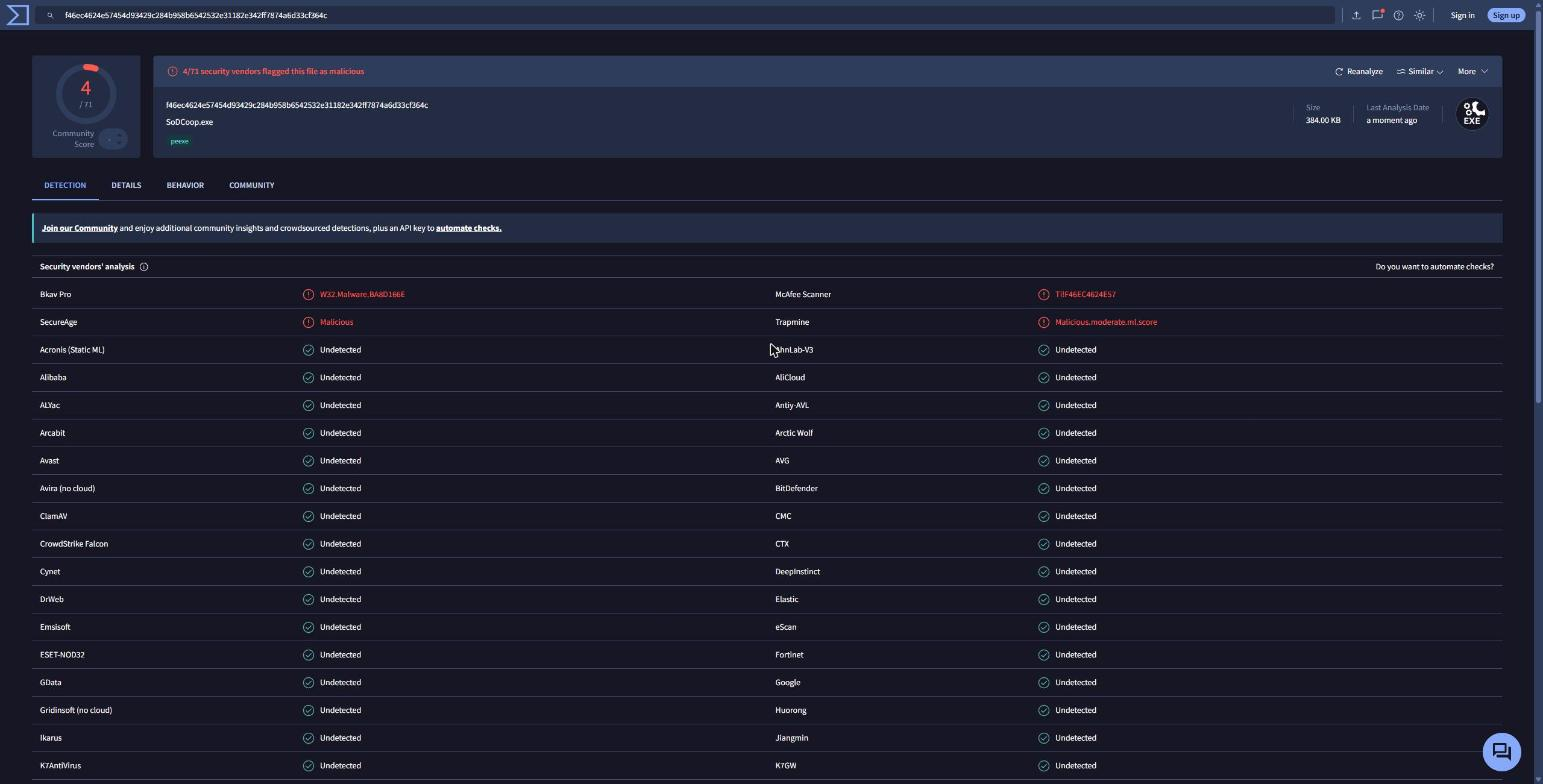
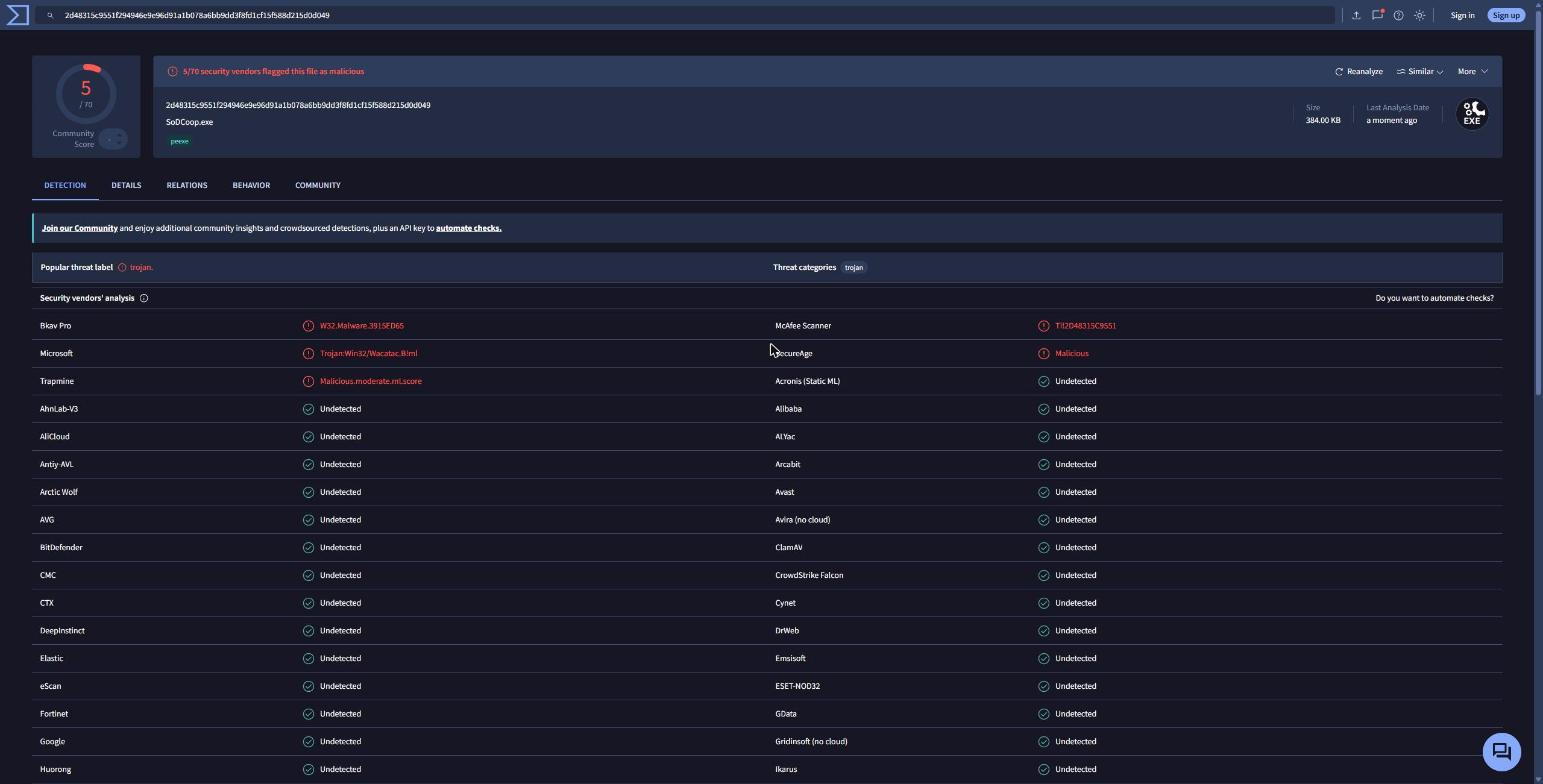
VirusTotal: resultado do pacote novo (com o envio automático do save)

diff --git a/docs/VIRUSTOTAL.md b/docs/VIRUSTOTAL.md
@@ -4,15 +4,15 @@
 
 ## English
 
-I scanned the files of the **2026-11-04** package (`sodcoop-20261104.zip`) on VirusTotal. The result **isn't zero**: each file was flagged by **4 of about 70 antivirus engines**. I'm publishing it as it is, with the links and screenshots, so you can check it yourself and decide.
+I scanned the files of the current package (`sodcoop-20261104.zip`, rebuilt on 2026-11-04 at 23:00 with the automatic save transfer) on VirusTotal. The result **isn't zero**: the mod was flagged by **3 of 71** antivirus engines and the setup window by **5 of 70**. I'm publishing it as it is, with the links and screenshots, so you can check it yourself and decide.
 
 ### Results
 
 | File | SHA-256 | Flagged by | VirusTotal |
 |---|---|---|---|
[6 lines of base64/hex data omitted]
 
 To check that your copy is the same file, open PowerShell in the folder and compare the output with the table:
 
@@ -20,15 +20,15 @@ To check that your copy is the same file, open PowerShell in the folder and comp
 Get-FileHash dinput8.dll, SoDCoop.exe -Algorithm SHA256
 ```
 
-A newer build has different hashes. This page only covers the files above.
+A newer build has different hashes. This page only covers the files above. The previous build of the same day (without the automatic save transfer) had 4 alerts on each file; its reports stay on VirusTotal under the hashes `881695d3…` (dll) and `f46ec462…` (exe).
 
 ### Screenshots
 
-**dinput8.dll: 4/70**
+**dinput8.dll: 3/71**
 
 ![VirusTotal result for dinput8.dll](virustotal/virustotal_dinput8.jpg)
 
-**SoDCoop.exe: 4/71**
+**SoDCoop.exe: 5/70**
 
 ![VirusTotal result for SoDCoop.exe](virustotal/virustotal_SoDCoop.jpg)
 
@@ -48,7 +48,7 @@ What the mod **doesn't** do: it doesn't change any file of the game or of Window
 
 ### If Windows Defender deletes the file
 
-Microsoft is one of the four, so on some PCs Windows Defender may quarantine `dinput8.dll` and the mod won't load. If that happens and you trust these files, after comparing the hashes above:
+Microsoft flagged `SoDCoop.exe` in this build (and `dinput8.dll` in the previous one), so on some PCs Windows Defender may quarantine one of them. Without `dinput8.dll` the mod doesn't load; without `SoDCoop.exe` you can still edit `sodcoop.ini` by hand. If that happens and you trust these files, after comparing the hashes above:
 
 1. Open **Windows Security → Virus & threat protection → Protection history** and restore the file.
 2. Optionally, add an exclusion for the file itself (`dinput8.dll` in the game folder) under **Manage settings → Exclusions**.
@@ -63,15 +63,15 @@ The mod is built from this repository's source code (`src/`, `launcher/`) with `
 
 ## Português
 
-Analisei no VirusTotal os arquivos do pacote de **04/11/2026** (`sodcoop-20261104.zip`). O resultado **não foi zero**: cada arquivo foi marcado por **4 de cerca de 70 antivírus**. Publico como está, com os links e os prints, para você conferir e decidir.
+Analisei no VirusTotal os arquivos do pacote atual (`sodcoop-20261104.zip`, gerado de novo em 04/11/2026 às 23h, já com o envio automático do save). O resultado **não foi zero**: o mod foi marcado por **3 de 71** antivírus, e a janela de configuração por **5 de 70**. Publico como está, com os links e os prints, para você conferir e decidir.
 
 ### Resultado
 
 | Arquivo | SHA-256 | Marcado por | VirusTotal |
 |---|---|---|---|
[6 lines of base64/hex data omitted]
 
 Para conferir se a sua cópia é o mesmo arquivo, abra o PowerShell na pasta e compare com a tabela:
 
@@ -79,7 +79,7 @@ Para conferir se a sua cópia é o mesmo arquivo, abra o PowerShell na pasta e c
 Get-FileHash dinput8.dll, SoDCoop.exe -Algorithm SHA256
 ```
 
-Uma versão mais nova tem outros hashes. Esta página vale só para os arquivos acima. Os prints estão na seção em inglês.
+Uma versão mais nova tem outros hashes. Esta página vale só para os arquivos acima. A versão anterior do mesmo dia (sem o envio automático do save) teve 4 alertas em cada arquivo; os relatórios dela continuam no VirusTotal, pelos hashes `881695d3…` (dll) e `f46ec462…` (exe). Os prints estão na seção em inglês.
 
 ### Por que os alertas aparecem
 
@@ -97,7 +97,7 @@ O que o mod **não** faz: não altera nenhum arquivo do jogo nem do Windows, nã
 
 ### Se o Windows Defender apagar o arquivo
 
-A Microsoft é um dos quatro, então em alguns PCs o Windows Defender pode pôr o `dinput8.dll` em quarentena, e o mod não carrega. Se acontecer e você confiar nos arquivos, depois de comparar os hashes acima:
+A Microsoft marcou o `SoDCoop.exe` nesta versão (e o `dinput8.dll` na anterior), então em alguns PCs o Windows Defender pode pôr um deles em quarentena. Sem o `dinput8.dll`, o mod não carrega; sem o `SoDCoop.exe`, ainda dá para editar o `sodcoop.ini` à mão. Se acontecer e você confiar nos arquivos, depois de comparar os hashes acima:
 
 1. Abra **Segurança do Windows → Proteção contra vírus e ameaças → Histórico de proteção** e restaure o arquivo.
 2. Se quiser, adicione uma exclusão só para o arquivo (`dinput8.dll` na pasta do jogo) em **Gerenciar configurações → Exclusões**.

diff --git a/README.md b/README.md
@@ -78,7 +78,7 @@ Detalhes técnicos e histórico em [docs/PROGRESSO.md](docs/PROGRESSO.md).
 
 ## 🛡 Antivírus (VirusTotal)
 
-Os arquivos do pacote de 04/11/2026 foram analisados no VirusTotal: **4 de cerca de 70 antivírus** marcaram cada um, todos com alertas automáticos (aprendizado de máquina e reputação), nenhum apontando vírus conhecido. Hashes, links, prints e o motivo dos alertas estão em [docs/VIRUSTOTAL.md](docs/VIRUSTOTAL.md) (em inglês e português).
+Os arquivos do pacote atual foram analisados no VirusTotal: **3 de 71 antivírus** marcaram o mod (dinput8.dll) e **5 de 70** a janela (SoDCoop.exe), todos com alertas automáticos (aprendizado de máquina e reputação), nenhum apontando vírus conhecido. Hashes, links, prints e o motivo dos alertas estão em [docs/VIRUSTOTAL.md](docs/VIRUSTOTAL.md) (em inglês e português).
 
 ## 🖥 Mod à parte: resolução 2560×1440
 
